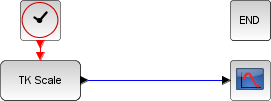
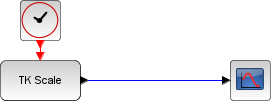
Fix #16859 - [doc] TKSCALE example duration redefined. END_c & ENDBLK => Events
https://gitlab.com/scilab/scilab/-/issues/16859

diff --git a/scilab/CHANGES.md b/scilab/CHANGES.md
@@ -73,6 +73,7 @@ Bug Fixes
 * [#15709](https://gitlab.com/scilab/scilab/-/issues/15709): `tbx_make(.,"help")` needed a `languages` option to target building to some chosen languages.
 * [#16685](https://gitlab.com/scilab/scilab/-/issues/16685): `asciimat()` now belongs to the `m2sci` module, where its code, pages and tests should be.
 * [#16804](https://gitlab.com/scilab/scilab/-/issues/16804): `[s,m]=assert_checkequal(1,%z)` yielded an error instead of silently returning the error message in `m`.
+* [#16859](https://gitlab.com/scilab/scilab/-/issues/16859): TKSCALE example had a flash duration. END_c and ENDBLK blocks were in the Sinks and/or Misc palettes instead of in Events.
 * [#16868](https://gitlab.com/scilab/scilab/-/issues/16868): `justify(hypermat,..)` processed only the first page `hypermat(:,:,1)`.
 * [#16872](https://gitlab.com/scilab/scilab/-/issues/16872): `cat()` did not apply `[,]` and `[;]` input transtyping rules.
 * [#16877](https://gitlab.com/scilab/scilab/-/issues/16877): `cellstr()` & `iscellstr()` now belong to the `m2sci` module, where their code, pages and tests should be.
@@ -103,5 +104,3 @@ Bug Fixes
 * [#17014](https://gitlab.com/scilab/scilab/-/issues/17014): The tolerance required for the `rat` computation should verify `abs(N./D - X) <= tol * norm(X, 1)` (help page fixed).
 * [#17022](https://gitlab.com/scilab/scilab/-/issues/17022): `kroneck()` returned wrong error message.
 * __add your bug fix here and keep this line__
-
-
